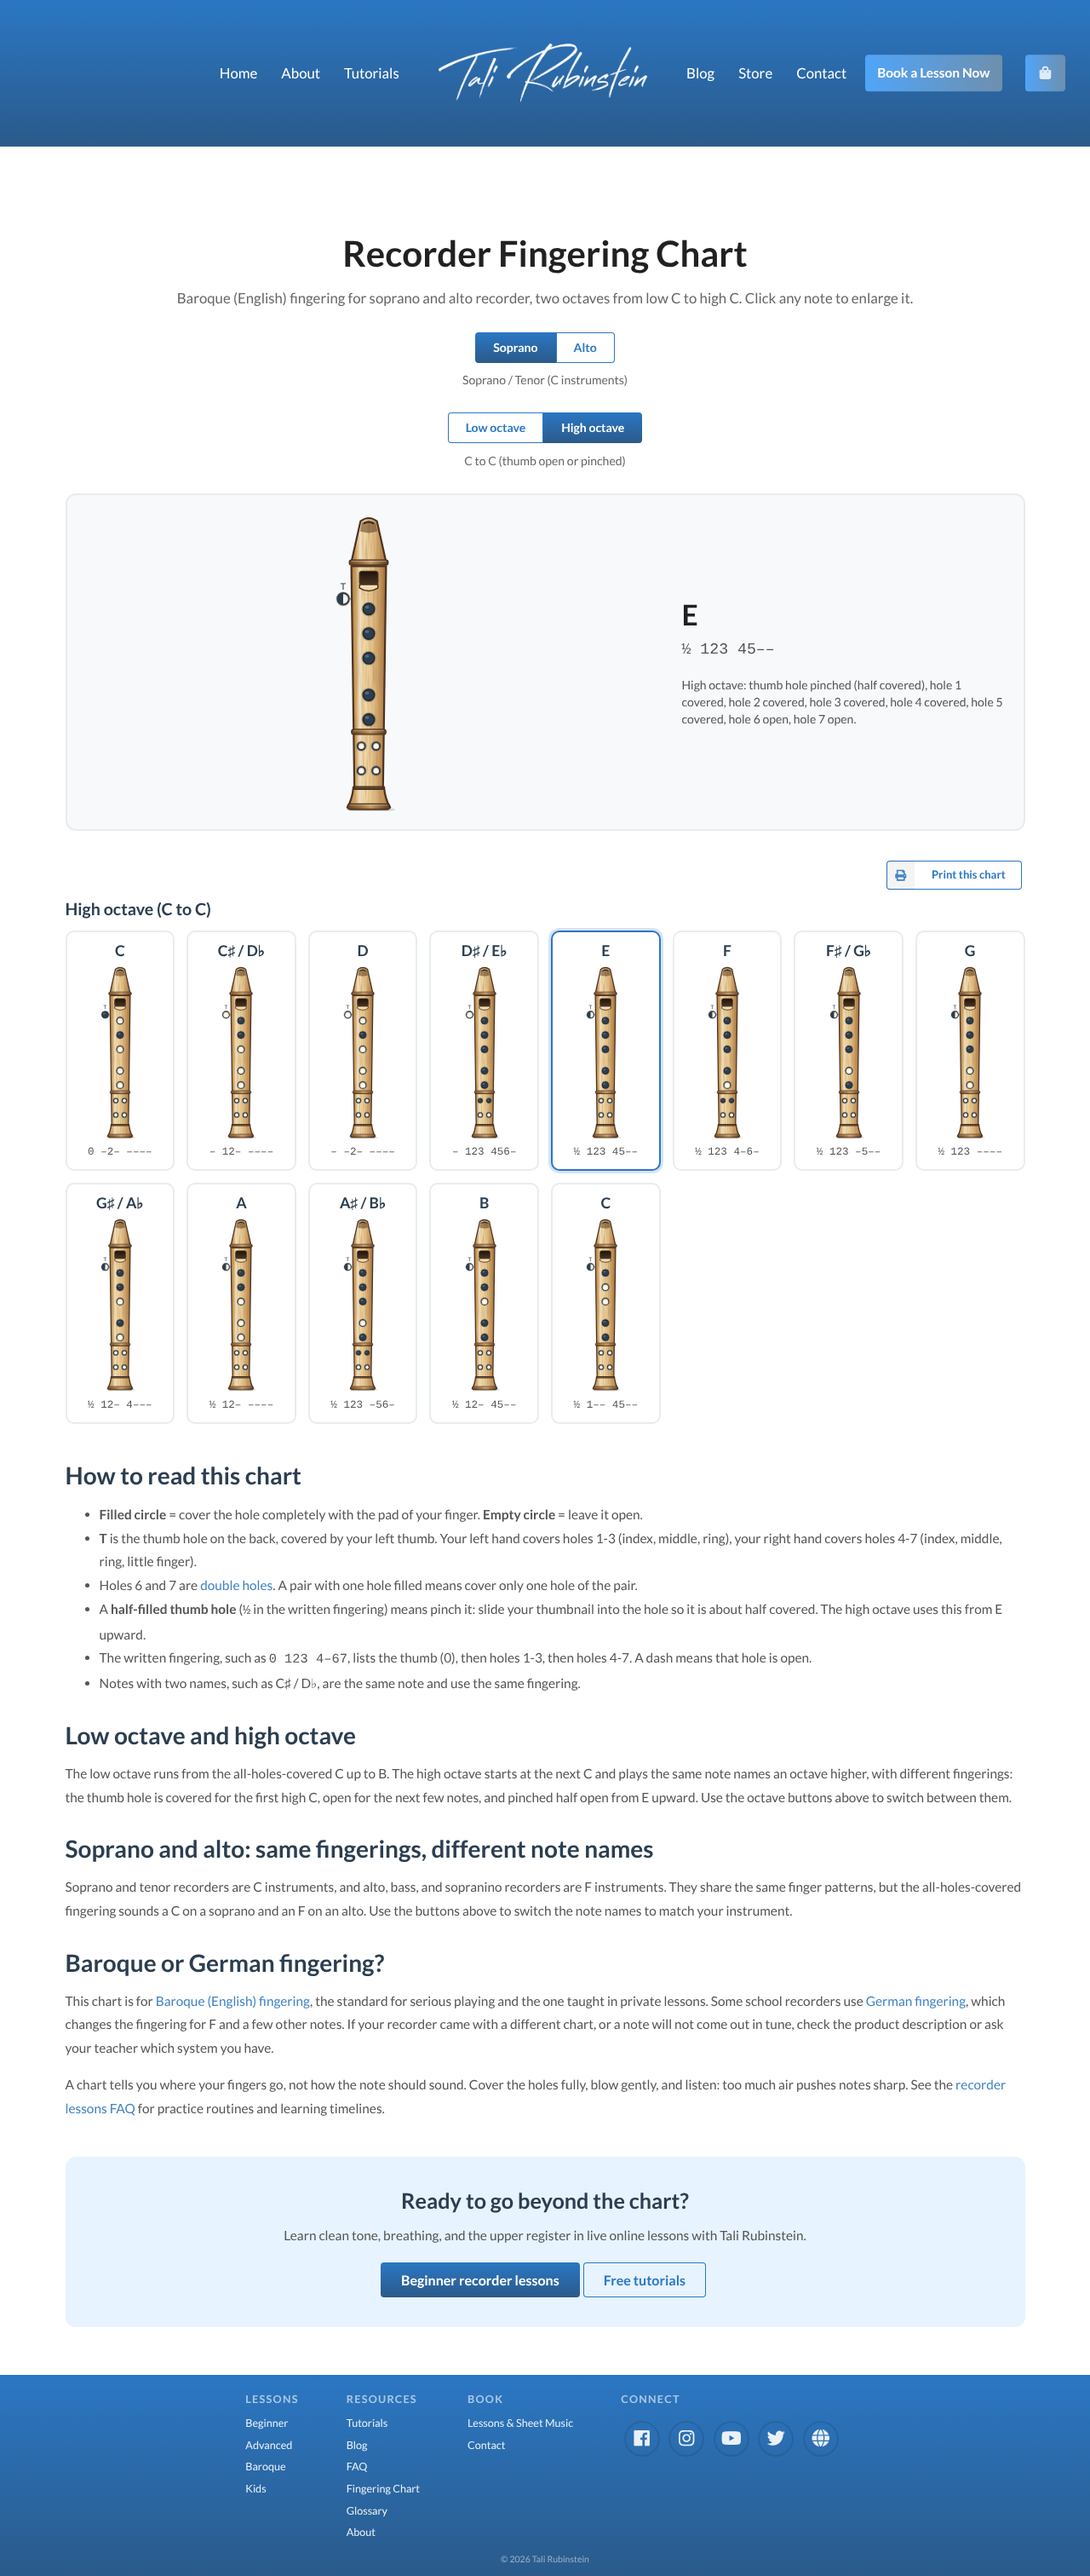
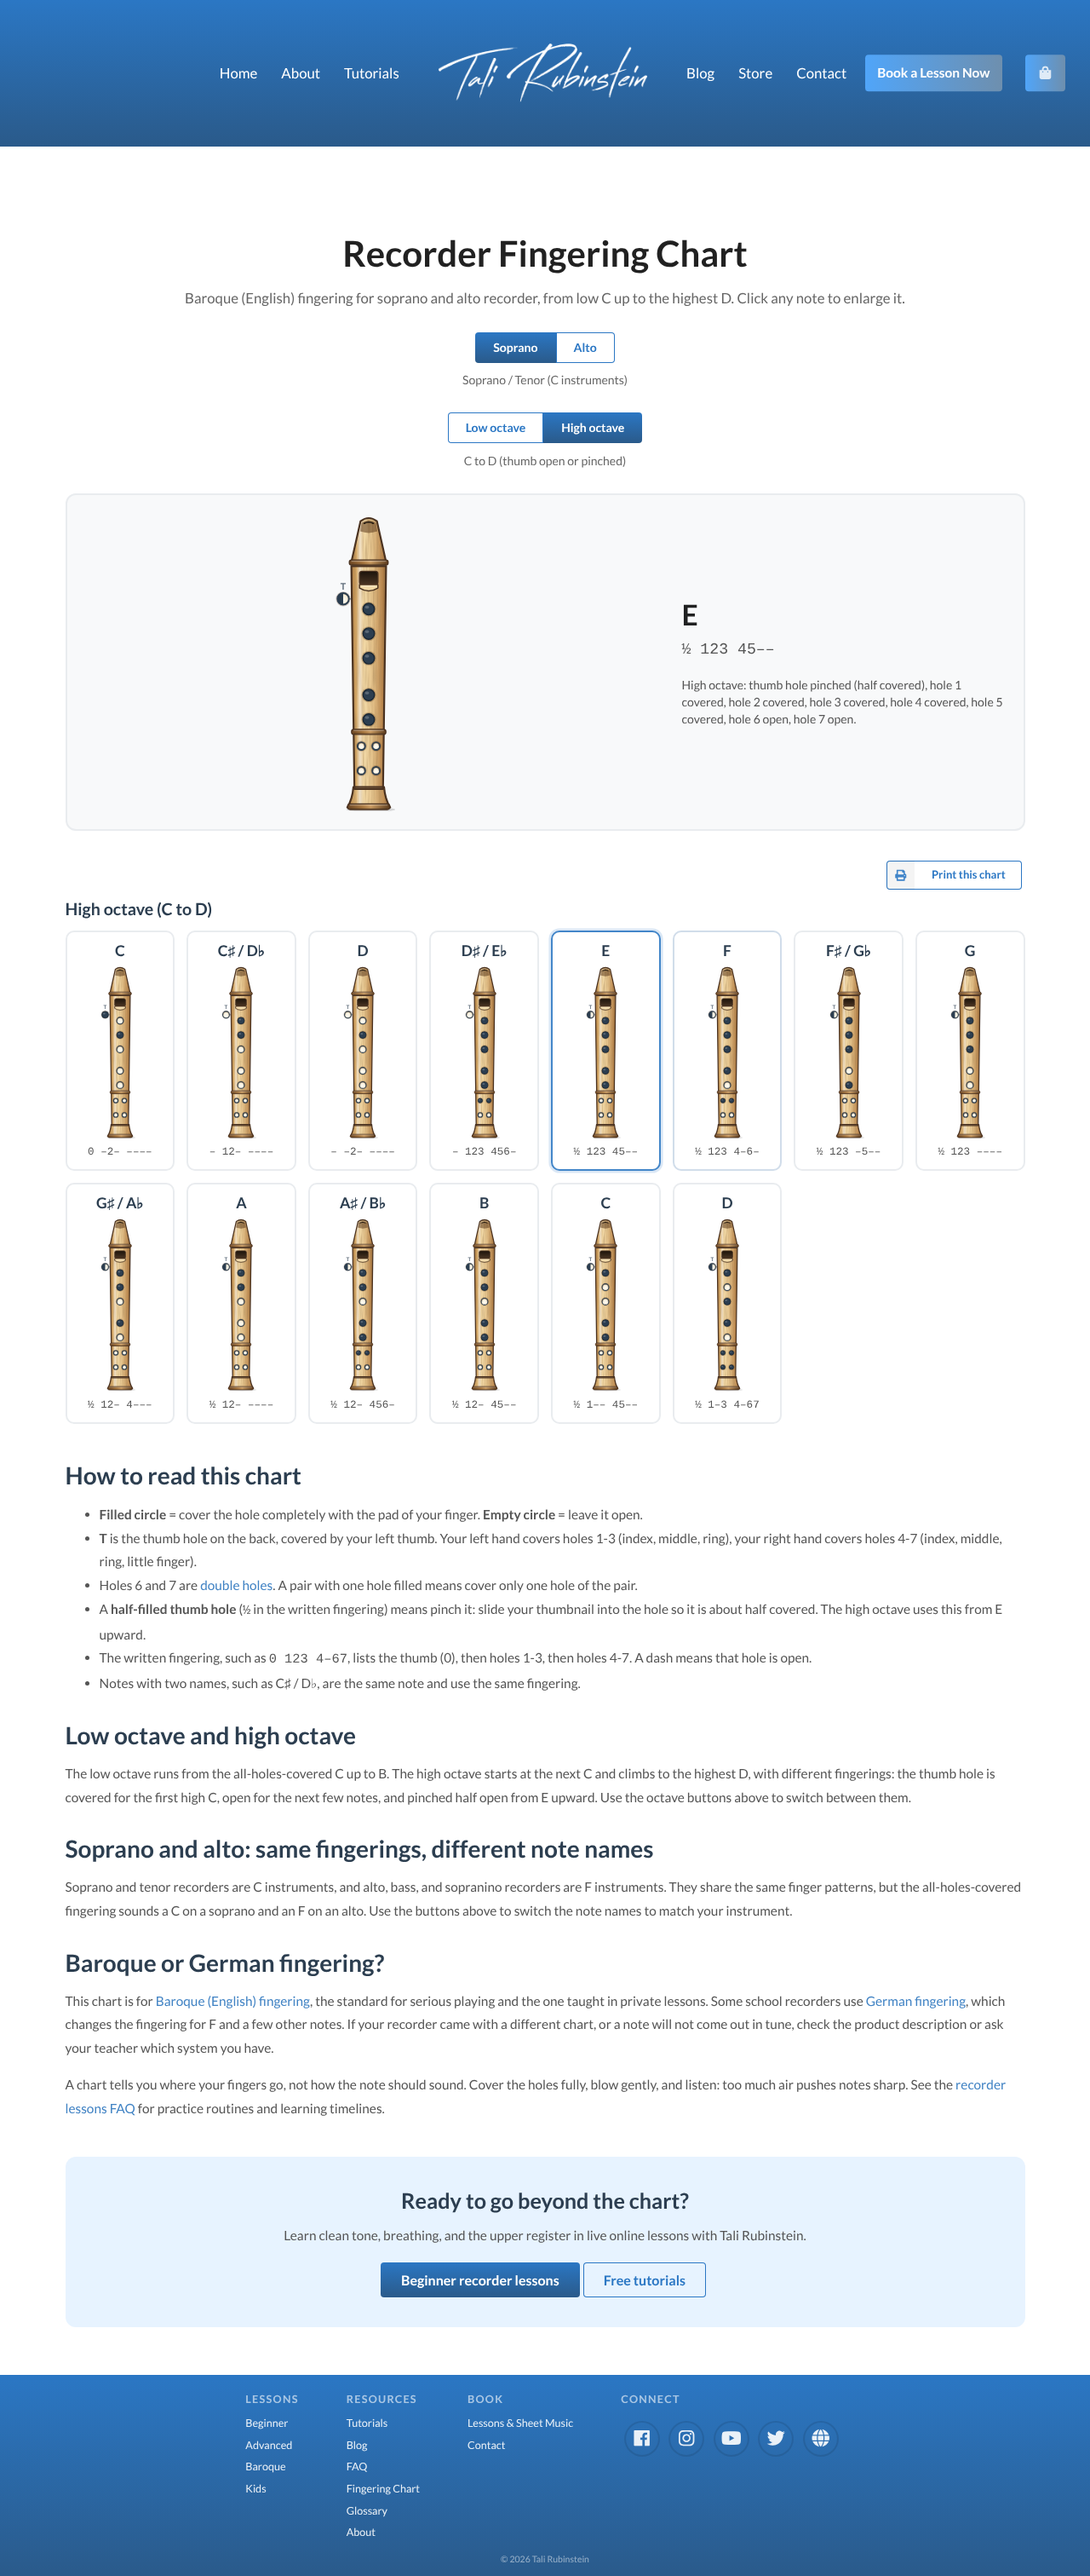
Fingering chart: apply Tali's revisions, add the highest D
- Low G♯/A♭: hole 6 half covered (0 12– 45½–)
- Low A♯/B♭: add hole 6 (0 1–3 4–6–)
- High A♯/B♭: remove hole 3, add hole 4 (½ 12– 456–)
- High octave now ends on the highest D (½ 1–3 4–67); copy and ranges updated
- Regenerate PR screenshots (high-octave shot is uncropped)

Claude-Session: https://claude.ai/code/session_01WMMpbvpRW59aVS4mF6u1VK

Changed region(s): [[0.5625, 0.6841, 0.9062, 0.7152], [0.6562, 0.4664, 0.6875, 0.5597]]

diff --git a/pages/recorder-fingering-chart.js b/pages/recorder-fingering-chart.js
@@ -61,7 +61,7 @@ const FingeringChart = () => {
     isAccessibleForFree: true,
     learningResourceType: 'Chart',
     educationalLevel: 'Beginner',
-    teaches: 'Baroque (English) fingering for soprano and alto recorder, two octaves from low C to high C',
+    teaches: 'Baroque (English) fingering for soprano and alto recorder, from low C up to the highest D',
     author: { '@id': PERSON_ID, '@type': 'Person', name: 'Tali Rubinstein' },
   }
 
@@ -116,7 +116,7 @@ const FingeringChart = () => {
       <Container style={{ marginTop: '6rem', marginBottom: '4rem', maxWidth: '1000px' }}>
         <h1 style={{ fontSize: '3rem', marginBottom: '1rem', textAlign: 'center' }}>Recorder Fingering Chart</h1>
         <p style={{ fontSize: '1.2rem', textAlign: 'center', color: '#666', marginBottom: '2rem' }}>
-          Baroque (English) fingering for soprano and alto recorder, two octaves from low C to high C. Click any note to enlarge it.
+          Baroque (English) fingering for soprano and alto recorder, from low C up to the highest D. Click any note to enlarge it.
         </p>
 
         <div className="no-print" style={{ textAlign: 'center', marginBottom: '2rem' }} role="group" aria-label="Choose your recorder">
@@ -226,7 +226,7 @@ const FingeringChart = () => {
 
           <h2 style={{ fontSize: '2rem', color: '#2c3e50', marginTop: '2rem' }}>Low octave and high octave</h2>
           <p style={{ fontSize: '1.1rem', lineHeight: '1.8', color: '#555' }}>
-            The low octave runs from the all-holes-covered C up to B. The high octave starts at the next C and plays the same note names an octave higher, with different fingerings:
+            The low octave runs from the all-holes-covered C up to B. The high octave starts at the next C and climbs to the highest D, with different fingerings:
             the thumb hole is covered for the first high C, open for the next few notes, and pinched half open from E upward. Use the octave buttons above to switch between them.
           </p>
 

diff --git a/data/fingerings.js b/data/fingerings.js
@@ -13,8 +13,8 @@
 //          For the thumb: "pinched", i.e. the thumbnail slid into the hole so it
 //          is about half covered (used for the second octave from E).
 //
-// Two octaves: the low octave (C to B) and the high octave (C to C, which takes
-// the player up to the top C). Enharmonic pairs are always written sharp first
+// Two octaves: the low octave (C to B) and the high octave (C up to the highest
+// D, 14 notes). Enharmonic pairs are always written sharp first
 // (C♯ / D♭), on every instrument.
 //
 // Sources: the low octave and most of the high octave are standard Baroque
@@ -28,7 +28,7 @@ const hi = (id, name, alt, holes, check) => ({ id: `h-${id}`, name, alt, octave:
 
 export const OCTAVES = [
   { id: 'low', label: 'Low octave', range: 'C to B' },
-  { id: 'high', label: 'High octave', range: 'C to C' },
+  { id: 'high', label: 'High octave', range: 'C to D' },
 ];
 
 export const FINGERINGS = [
@@ -41,9 +41,9 @@ export const FINGERINGS = [
   lo('f',  'F',  null, '#####.##'),
   lo('fs', 'F♯', 'G♭', '####.##.', true),
   lo('g',  'G',  null, '####....'),
-  lo('gs', 'G♯', 'A♭', '###.###.', true),
+  lo('gs', 'G♯', 'A♭', '###.##/.', true),
   lo('a',  'A',  null, '###.....'),
-  lo('as', 'A♯', 'B♭', '##.##...', true),
+  lo('as', 'A♯', 'B♭', '##.##.#.', true),
   lo('b',  'B',  null, '##......'),
 
   // High octave (thumb open or pinched)
@@ -57,9 +57,10 @@ export const FINGERINGS = [
   hi('g',  'G',  null, '/###....', true),
   hi('gs', 'G♯', 'A♭', '/##.#...', true),
   hi('a',  'A',  null, '/##.....', true),
-  hi('as', 'A♯', 'B♭', '/###.##.', true),
+  hi('as', 'A♯', 'B♭', '/##.###.', true),
   hi('b',  'B',  null, '/##.##..', true),
   hi('c2', 'C',  null, '/#..##..', true),
+  hi('d2', 'D',  null, '/#.##.##', true),
 ];
 
 // Note names when the same fingering is played on an alto (F instrument).
